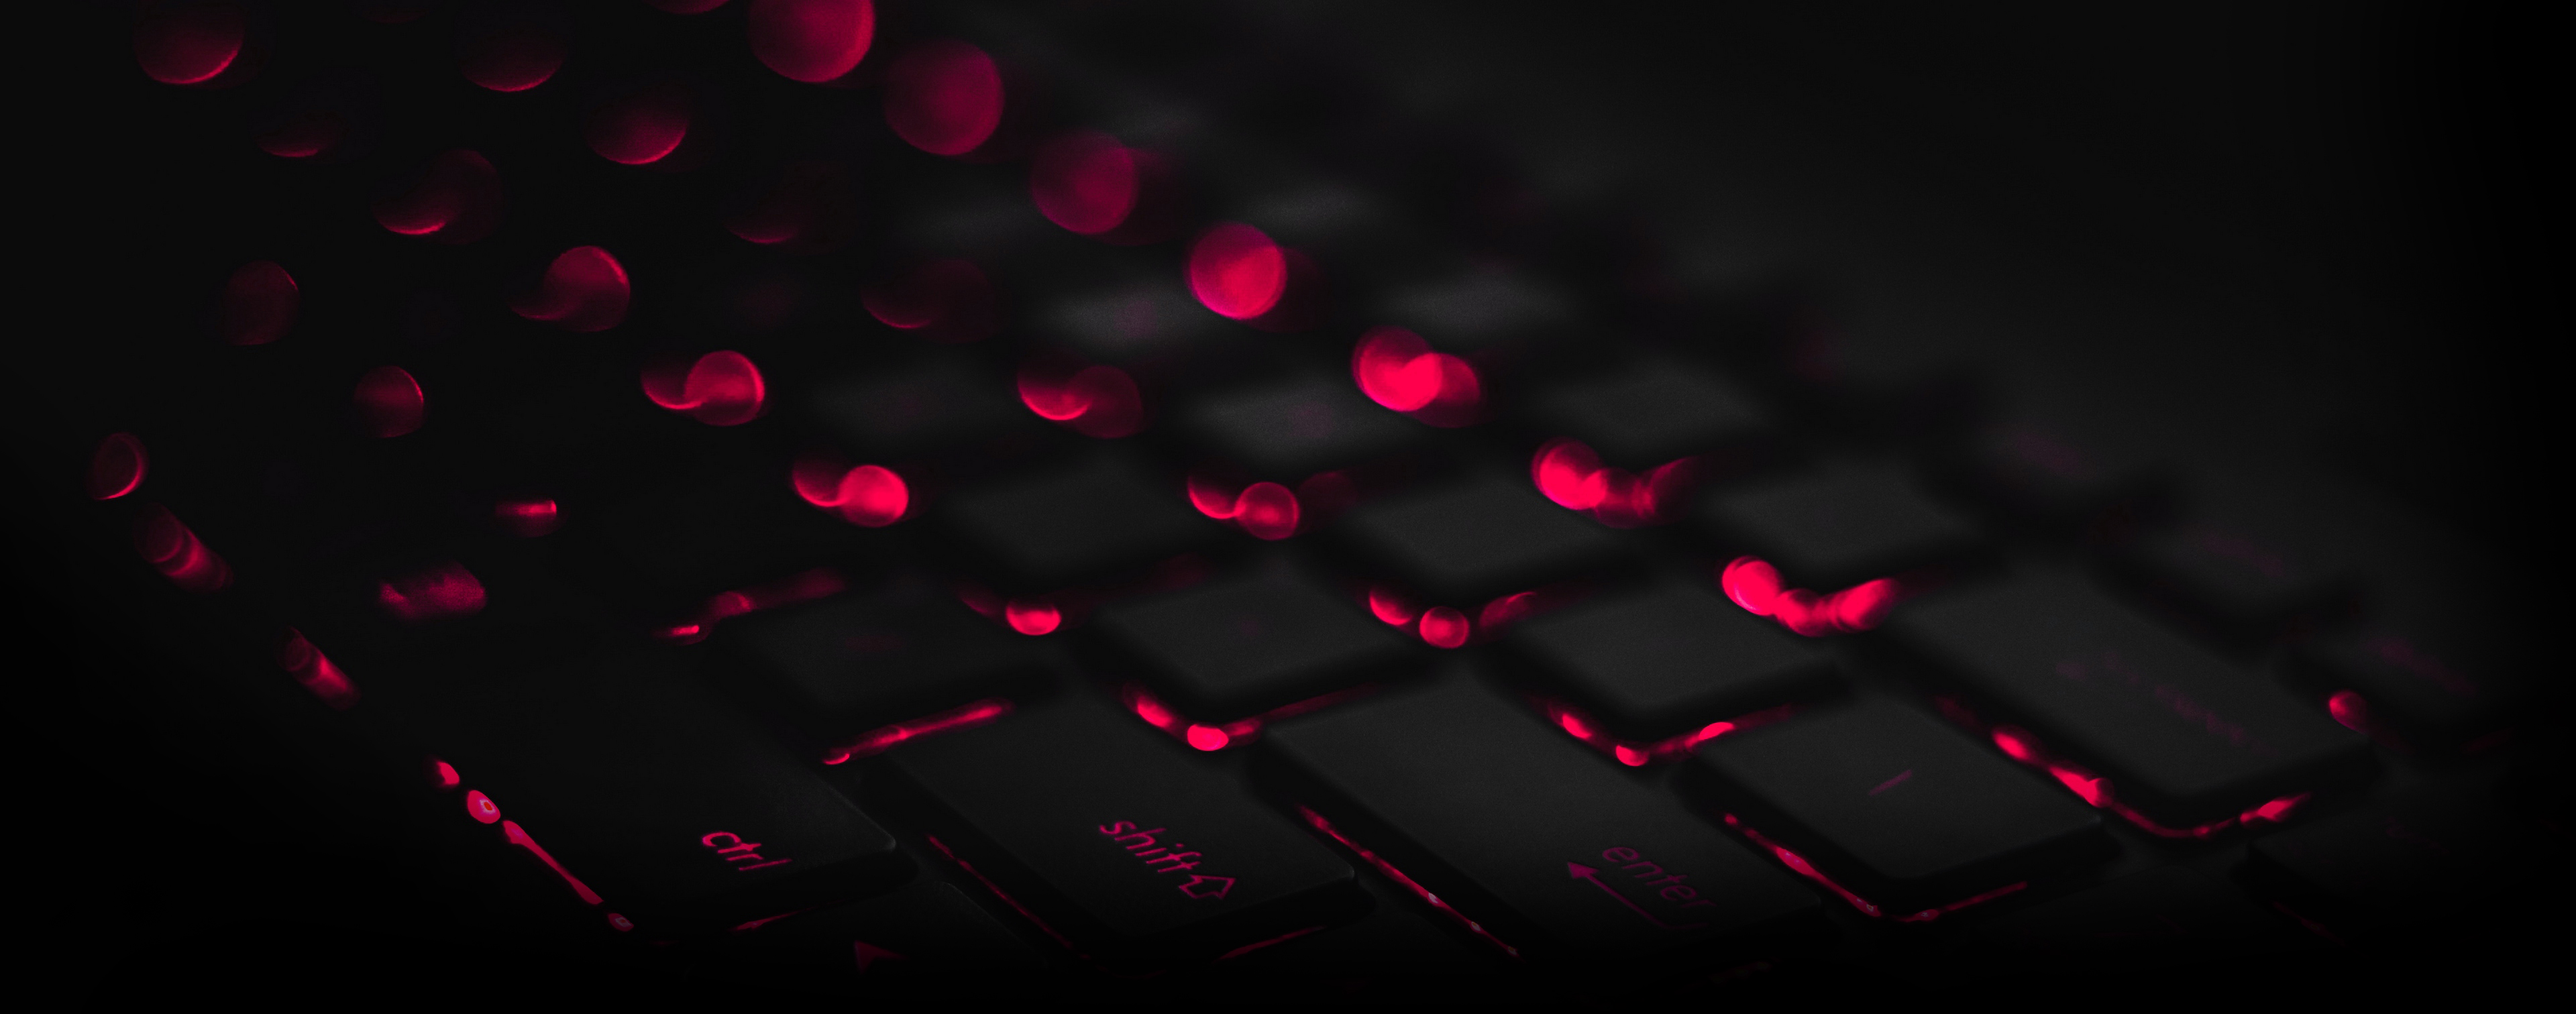
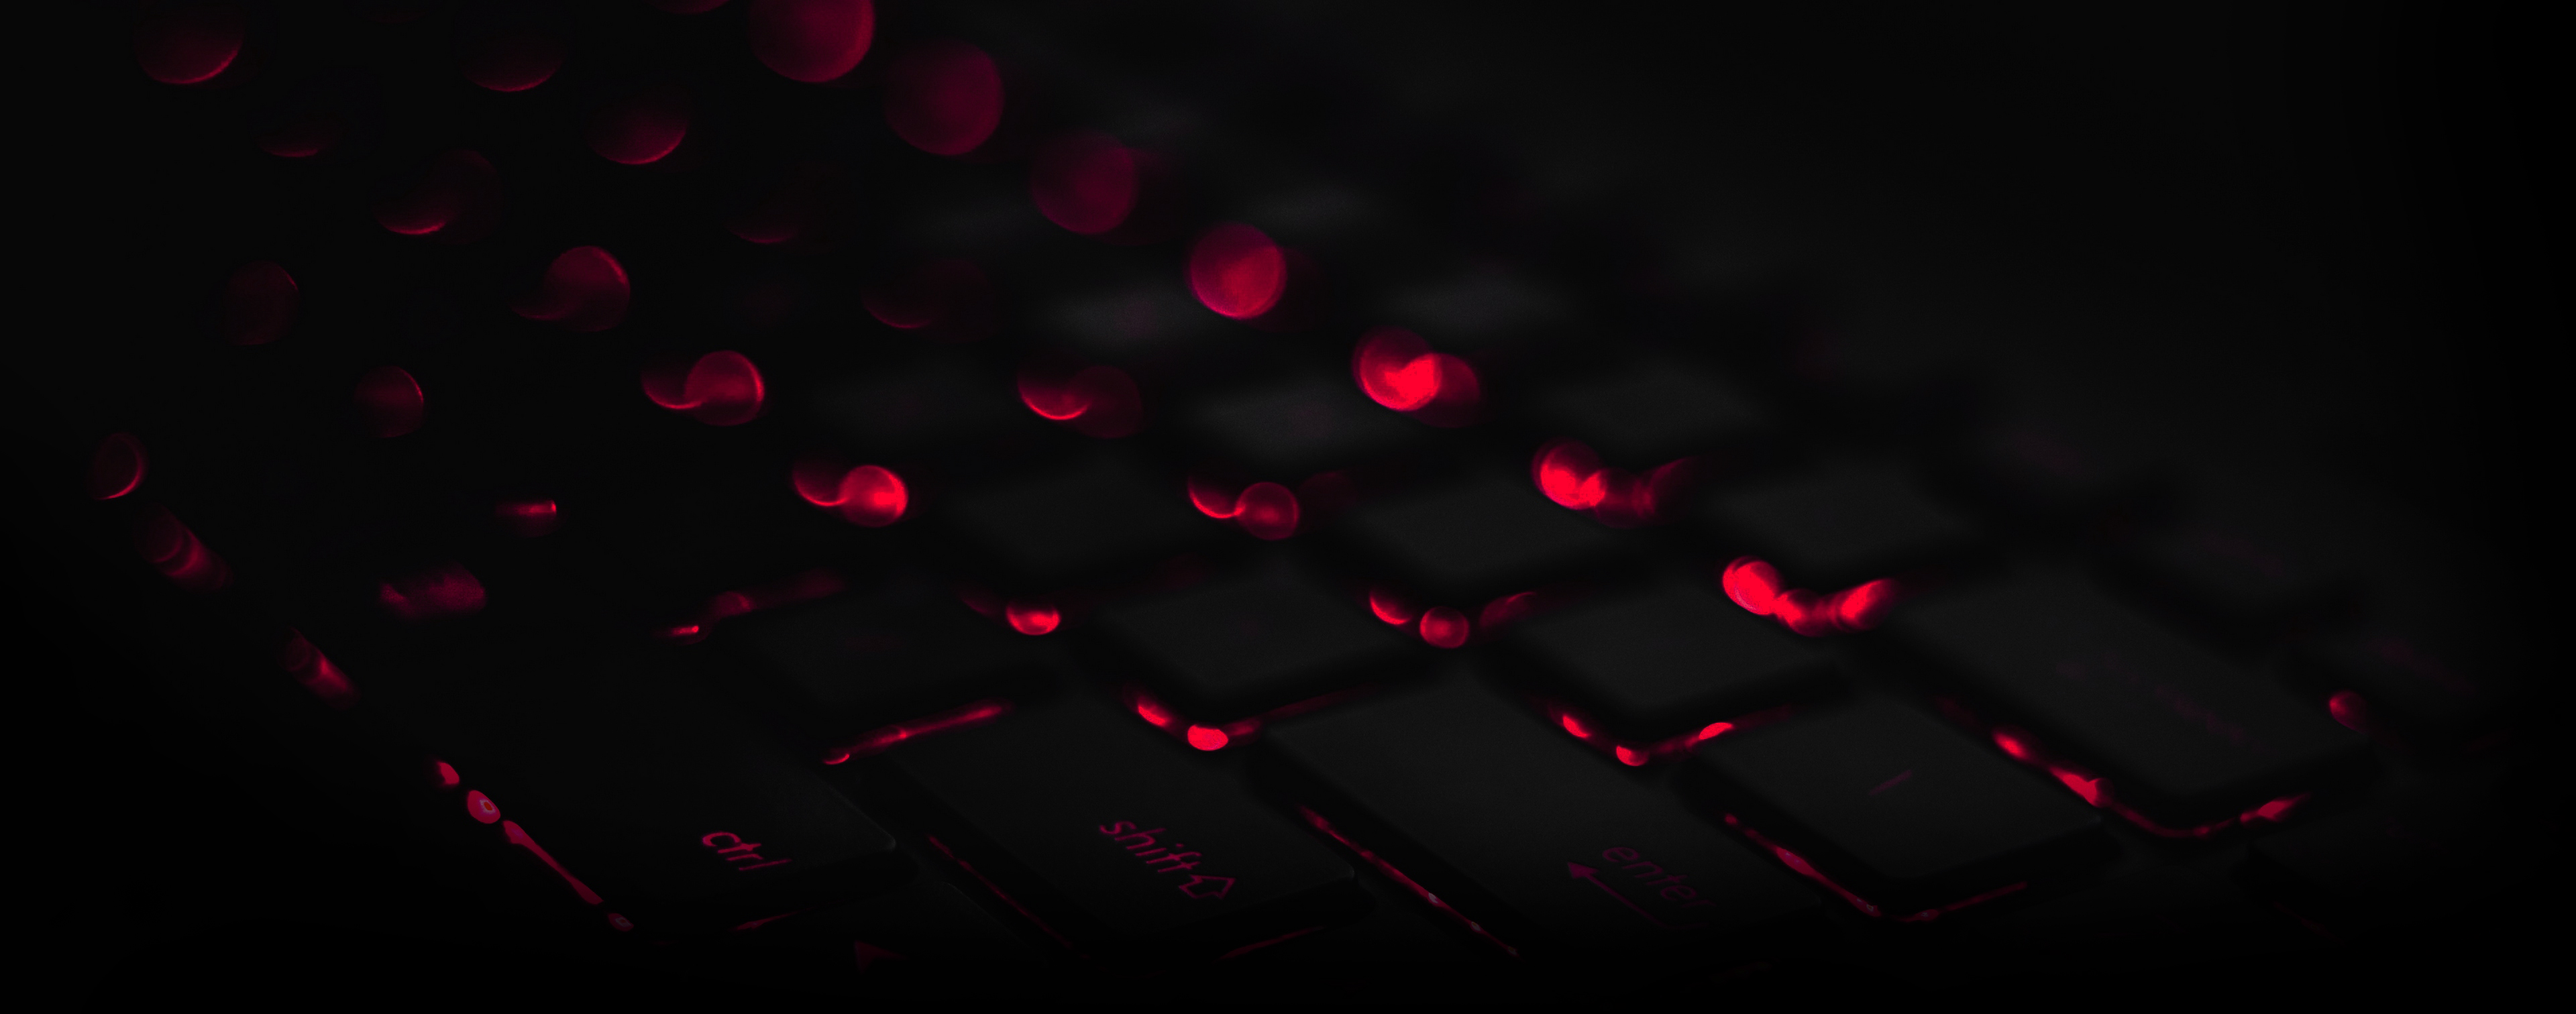
15/08

diff --git a/siteEmpresa/index.html b/siteEmpresa/index.html
@@ -4,9 +4,9 @@
     <meta charset="UTF-8">
     <meta name="viewport" content="width=device-width, initial-scale=1.0">
     <meta http-equiv="X-UA-Compatible" content="ie=edge">
-    <title>System Crown - Desenvolvimento de Software</title>
-    <link rel="stylesheet" href="style.css">
+    <title>Bem Vindo à System Crown!</title>
     <link rel="shortcut icon" href="img/icon/icon.png" type="image/x-icon">
+    <link rel="stylesheet" href="style.css">
 </head>
 <body>
     <header>

diff --git a/siteEmpresa/home.html b/siteEmpresa/home.html
@@ -1,0 +1,14 @@
+<!DOCTYPE html>
+<html lang="pt-br">
+<head>
+    <meta charset="UTF-8">
+    <meta name="viewport" content="width=device-width, initial-scale=1.0">
+    <meta http-equiv="X-UA-Compatible" content="ie=edge">
+    <title>System Crown - Desenvolvimento de Software</title>
+    <link rel="shortcut icon" href="img/icon/icon.png" type="image/x-icon">
+</head>
+<body>
+    
+</body>
+<script src="script.js"></script>
+</html>

diff --git a/siteEmpresa/style.css b/siteEmpresa/style.css
@@ -12,7 +12,7 @@
      padding: 0;
  }
  body {
-     background: url('img/background2.jpg');
+     background: url('img/background.jpg');
      background-repeat: no-repeat;
      background-size: cover;
      background-attachment: fixed;
